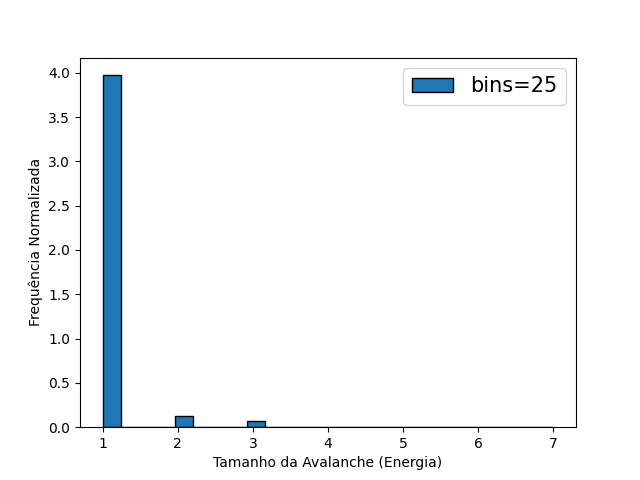
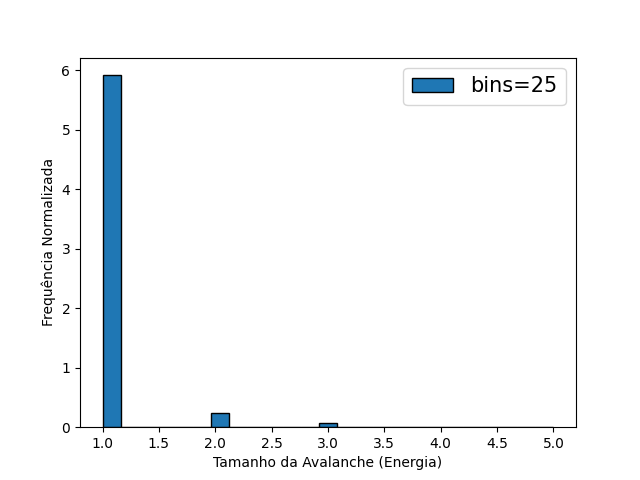
update

diff --git a/slopes.py b/slopes.py
@@ -14,17 +14,17 @@ import matplotlib.pyplot as plt
 
 #a = -1.671     b= 128.429 (L= 400, graos = 5*10^3)
 
-x_L = [80, 100, 100, 200,200,200,200,400]
-x_grãos = [5000, 5000, 10000, 5000, 10000, 12000, 20000, 5000]
+# x_L = [80, 100, 100, 200,200,200,200,400]
+# x_grãos = [5000, 5000, 10000, 5000, 10000, 12000, 20000, 5000]
 x_p = np.arange(0,1,0.1)
 
-slopes_Lg = [-1.755, -1.687, -1.698, -1.682,-1.682, -1.682, -1.701, -1.710 ]
-slopes = [-1.723, -1.712, -1.709, -1.42, -1.21]
-s_p = [-1.723, -1.709,-1.557,-1.605,-1.676,-1.654,-1.376,-1.595,-1.357,-1.371]
+# slopes_Lg = [-1.755, -1.687, -1.698, -1.682,-1.682, -1.682, -1.701, -1.710 ]
+# slopes = [-1.723, -1.712, -1.709, -1.42, -1.21]
+s_p = [-1.719, -1.705,-1.62,-1.73 ,-1.49,-1.544,-1.35,-1.38,-1.39,-1.4]
 
-errory_Lg =  [0.005, 0.003, 0.004, 0.003,0.002, 0.003, 0.001, 0.004]
+# errory_Lg =  [0.005, 0.003, 0.004, 0.003,0.002, 0.003, 0.001, 0.004]
 # errory = [0.002, 0.003, 0.009, 0.06,0.06]
-errory_p = [0.002, 0.009, 0.02, 0.03, 0.02, 0.06, 0.05, 0.07, 0.10, 0.06]
+errory_p = [0.004, 0.007, 0.02, 0.02, 0.04, 0.05, 0.03, 0.08, 0.06, 0.2]
 
 
 def slope_graph(x,y, erry, save_path:str, x_label:str, y_lim:bool):
@@ -44,8 +44,8 @@ def slope_graph(x,y, erry, save_path:str, x_label:str, y_lim:bool):
     plt.scatter(x,slopes,color='red')
     plt.plot(x,fit(x,a,b), color = "green", label = "a =%.6f $\pm$ %.6f \nb =%.3f $\pm$ %.3f" %(a,erra,b,errb))
     plt.errorbar(x, slopes, yerr=errory, fmt="o")
-    if y_lim == True:
-        plt.ylim(-1.9,-1.5)
+    # if y_lim == True:
+    #     plt.ylim(-1.9,-1.5)
     plt.xlabel(x_label)
     plt.ylabel("slopes (a)")
     plt.legend(prop={'size': 15})
@@ -53,5 +53,5 @@ def slope_graph(x,y, erry, save_path:str, x_label:str, y_lim:bool):
     return plt.show()
 
 para_P = slope_graph(x_p,s_p, errory_p,'Slopep.pdf', 'p', True)
-para_L = slope_graph(x_L,slopes_Lg,errory_Lg, 'SlopeL.pdf', 'L', True)
-para_L = slope_graph(x_grãos,slopes_Lg,errory_Lg, 'Slopeg.pdf', 'grãos', True)
+# para_L = slope_graph(x_L,slopes_Lg,errory_Lg, 'SlopeL.pdf', 'L', True)
+# para_L = slope_graph(x_grãos,slopes_Lg,errory_Lg, 'Slopeg.pdf', 'grãos', True)

diff --git a/sandpile.py b/sandpile.py
@@ -38,7 +38,7 @@ grao_final = 10000
 deslizamento = 0 
 
 #valor da constante p
-p = 0.7 
+p = 0.9 
 
 energia = np.zeros(grao_final+1)
 
